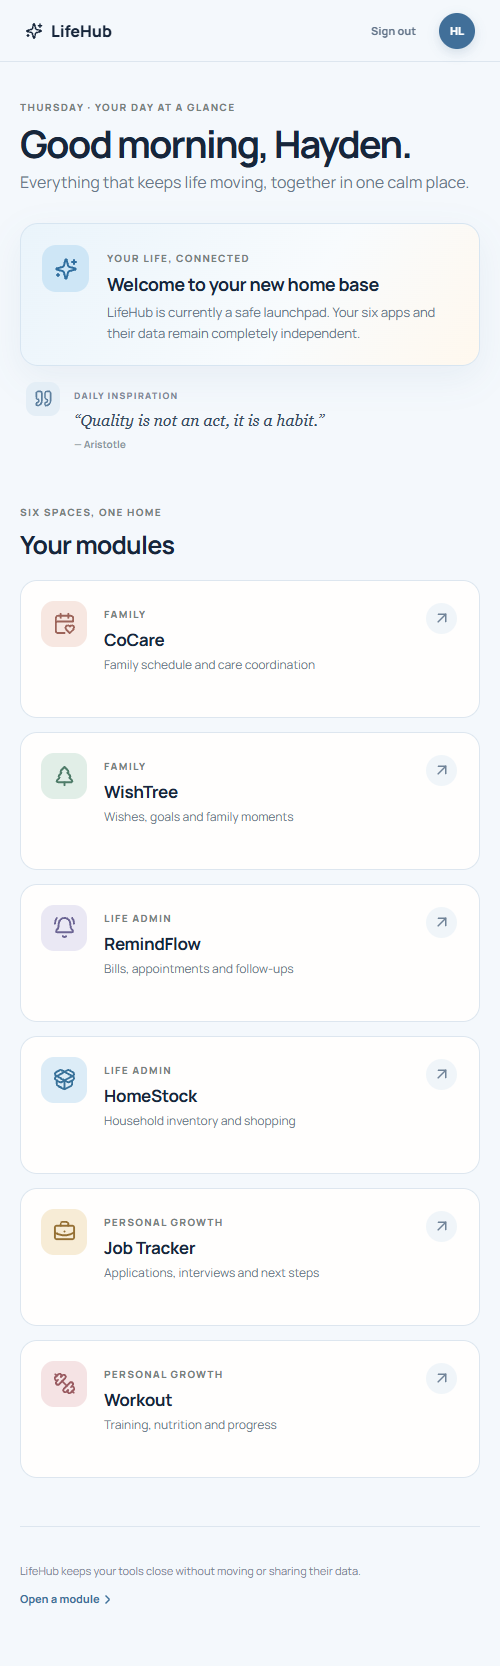
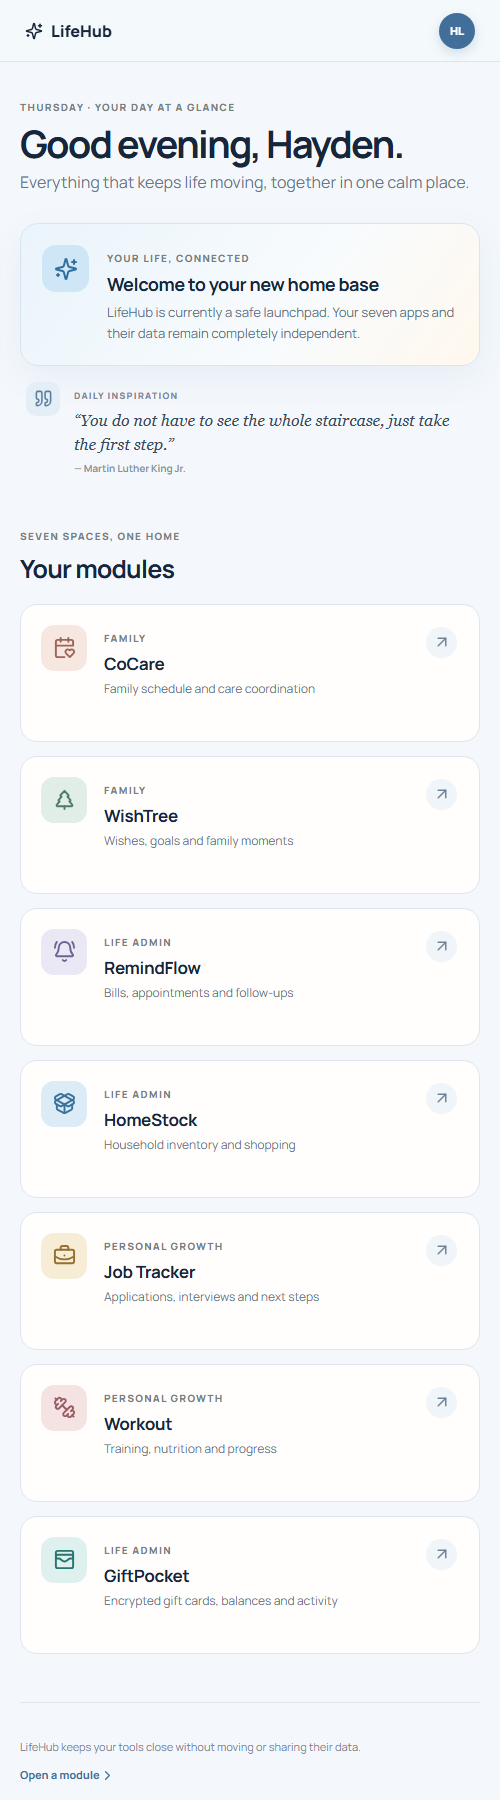
Add GiftPocket case study

diff --git a/app/projects/page.tsx b/app/projects/page.tsx
@@ -14,17 +14,17 @@ export default async function ProjectsPage() {
       {platform && <section>
         <div className="mb-4"><p className="text-xs uppercase tracking-[0.24em] text-muted-foreground">Featured platform</p><h2 className="mt-1 text-2xl font-semibold">One connected product vision</h2></div>
         <article className="overflow-hidden rounded-3xl border border-border bg-card/60 shadow-sm lg:grid lg:grid-cols-[1.25fr_0.75fr]">
-          <div className="relative min-h-[340px] border-b border-border bg-slate-100 lg:border-b-0 lg:border-r"><Image src="/projects/screenshots/lifehub-dashboard.png" alt="LifeHub dashboard with six connected modules" fill priority className="object-cover object-top" /></div>
+          <div className="relative min-h-[340px] border-b border-border bg-slate-100 lg:border-b-0 lg:border-r"><Image src="/projects/screenshots/lifehub-dashboard.png" alt="LifeHub dashboard with seven connected modules" fill priority className="object-cover object-top" /></div>
           <div className="flex flex-col justify-center p-7">
             <div className="flex items-center gap-3"><Image src="/projects/lifehub.svg" alt="" width={52} height={52} className="h-13 w-13 rounded-xl" /><div><p className="text-xs uppercase tracking-[0.2em] text-muted-foreground">Private by design</p><h3 className="text-2xl font-semibold">LifeHub</h3></div></div>
-            <p className="mt-5 text-sm leading-relaxed text-muted-foreground">A secure personal platform that connects six real workflow applications while keeping each app, database and access boundary independently reliable.</p>
-            <div className="mt-5 grid grid-cols-2 gap-2 text-sm">{["CoCare", "RemindFlow", "HomeStock", "ApplyTrackr", "Workout", "WishTree"].map((name) => <span key={name} className="rounded-xl border border-border bg-background/40 px-3 py-2">{name}</span>)}</div>
+            <p className="mt-5 text-sm leading-relaxed text-muted-foreground">A secure personal platform that connects seven real workflow applications while keeping each app, database and access boundary independently reliable.</p>
+            <div className="mt-5 grid grid-cols-2 gap-2 text-sm">{["CoCare", "RemindFlow", "HomeStock", "ApplyTrackr", "Workout", "WishTree", "GiftPocket"].map((name) => <span key={name} className="rounded-xl border border-border bg-background/40 px-3 py-2">{name}</span>)}</div>
             <div className="mt-6 flex flex-wrap gap-3"><Link href="/projects/lifehub" className="rounded-full bg-foreground px-4 py-2 text-sm text-background">View case study →</Link><span className="rounded-full border border-border px-4 py-2 text-sm text-muted-foreground">Next.js · TypeScript · Prisma</span></div>
           </div>
         </article>
       </section>}
 
-      <section><div className="mb-4"><p className="text-xs uppercase tracking-[0.24em] text-muted-foreground">LifeHub modules</p><h2 className="mt-1 text-2xl font-semibold">Six real-world applications</h2><p className="mt-2 max-w-2xl text-sm text-muted-foreground">Each module solves a distinct workflow and remains independently deployable, while sharing a broader product direction.</p></div><div className="grid gap-6 md:grid-cols-2">{modules.map((project) => <ProjectCard key={project.slug} project={project} />)}</div></section>
+      <section><div className="mb-4"><p className="text-xs uppercase tracking-[0.24em] text-muted-foreground">LifeHub modules</p><h2 className="mt-1 text-2xl font-semibold">Seven real-world applications</h2><p className="mt-2 max-w-2xl text-sm text-muted-foreground">Each module solves a distinct workflow and remains independently deployable, while sharing a broader product direction.</p></div><div className="grid gap-6 md:grid-cols-2">{modules.map((project) => <ProjectCard key={project.slug} project={project} />)}</div></section>
     </div>
   </Section>;
 }

diff --git a/app/page.tsx b/app/page.tsx
@@ -63,7 +63,7 @@ export default function HomePage() {
     <Section title="Featured work" eyebrow="A short introduction to LifeHub">
       <div className="overflow-hidden rounded-2xl border border-border bg-card/60 md:grid md:grid-cols-[1.2fr_0.8fr]">
         <div className="relative min-h-64 border-b border-border bg-slate-100 md:border-b-0 md:border-r"><Image src="/projects/screenshots/lifehub-dashboard.png" alt="LifeHub dashboard" fill className="object-cover object-top" /></div>
-        <div className="flex flex-col justify-center p-6"><p className="text-xs uppercase tracking-[0.2em] text-muted-foreground">Seven connected case studies</p><h3 className="mt-2 text-2xl font-semibold">LifeHub</h3><p className="mt-3 text-sm leading-relaxed text-muted-foreground">A private home base connecting six independently deployed apps without disrupting their databases, authentication or everyday use.</p><div className="mt-5 flex flex-wrap gap-3"><Link href="/projects/lifehub" className="rounded-full bg-foreground px-4 py-2 text-sm text-background">Read the case study</Link><Link href="/projects" className="rounded-full border border-border px-4 py-2 text-sm">Browse all projects</Link></div></div>
+        <div className="flex flex-col justify-center p-6"><p className="text-xs uppercase tracking-[0.2em] text-muted-foreground">Eight connected case studies</p><h3 className="mt-2 text-2xl font-semibold">LifeHub</h3><p className="mt-3 text-sm leading-relaxed text-muted-foreground">A private home base connecting seven independently deployed apps without disrupting their databases, authentication or everyday use.</p><div className="mt-5 flex flex-wrap gap-3"><Link href="/projects/lifehub" className="rounded-full bg-foreground px-4 py-2 text-sm text-background">Read the case study</Link><Link href="/projects" className="rounded-full border border-border px-4 py-2 text-sm">Browse all projects</Link></div></div>
       </div>
     </Section>
 

diff --git a/components/hero.tsx b/components/hero.tsx
@@ -12,7 +12,7 @@ export function Hero() {
         <motion.div initial={{ opacity: 0, y: 24 }} animate={{ opacity: 1, y: 0 }} transition={{ duration: 0.55, ease: "easeOut" }} className="max-w-4xl space-y-6">
           <p className="text-xs uppercase tracking-[0.32em] text-muted-foreground">Full Stack Developer · Product Builder · Digital Operations</p>
           <h1 className="text-4xl font-semibold leading-tight tracking-tight sm:text-6xl">I turn real-life workflows into useful, reliable web products.</h1>
-          <p className="max-w-3xl text-lg leading-relaxed text-muted-foreground">Melbourne-based developer with experience across product design, full-stack delivery, digital marketing systems and IT support. My featured platform, LifeHub, brings six independently deployed applications into one privacy-conscious ecosystem.</p>
+          <p className="max-w-3xl text-lg leading-relaxed text-muted-foreground">Melbourne-based developer with experience across product design, full-stack delivery, digital marketing systems and IT support. My featured platform, LifeHub, brings seven independently deployed applications into one privacy-conscious ecosystem.</p>
           <div className="flex flex-wrap gap-3">
             <a href="/projects/lifehub" className="rounded-full bg-foreground px-5 py-2.5 text-background transition hover:-translate-y-0.5 hover:shadow-glow">Explore LifeHub</a>
             <a href="/projects" className="rounded-full border border-border px-5 py-2.5 transition hover:-translate-y-0.5 hover:border-foreground">View all projects</a>

diff --git a/resume/hayden-lin-resume.html b/resume/hayden-lin-resume.html
@@ -83,7 +83,7 @@
   <section>
     <h2>Selected product work</h2>
     <div class="projects">
-      <article class="project"><h3>LifeHub</h3><p>Private, installable home base connecting six independently deployed workflow applications while keeping their data and access controls separate.</p></article>
+      <article class="project"><h3>LifeHub</h3><p>Private, installable home base connecting seven independently deployed workflow applications while keeping their data and access controls separate.</p></article>
       <article class="project"><h3>CoCare</h3><p>Calendar-first family scheduling system with structured change requests, permissions and auditable history.</p></article>
       <article class="project"><h3>RemindFlow</h3><p>Life-administration tool for bills, subscriptions, appointments and follow-up reminders.</p></article>
       <article class="project"><h3>HomeStock & ApplyTrackr</h3><p>Inventory visibility and job-application tracking tools designed around practical everyday workflows.</p></article>